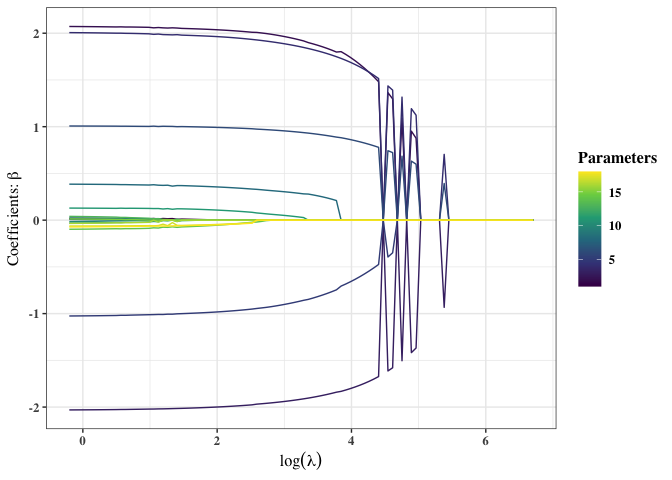
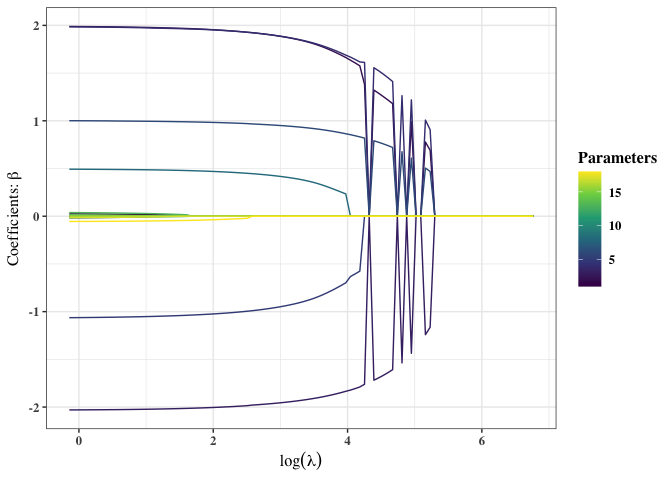
did some work

diff --git a/src/parameter_updates.cpp b/src/parameter_updates.cpp
@@ -7,7 +7,7 @@
 // [[Rcpp::export]]
 arma::mat beta_update(arma::mat X, arma::mat y, arma::mat gamma_mat,
                       arma::mat V, double lambda, bool penalty) {
-  // Finite Mixture of Gaussian Regression Models EM algorithm beta update
+  // Finite Gaussian Mixture Regression Distribution MM algorithm beta update
   int G = gamma_mat.n_cols;
   int p = X.n_cols;
   arma::vec z, ext_V_row;
@@ -56,7 +56,7 @@ arma::mat beta_update(arma::mat X, arma::mat y, arma::mat gamma_mat,
 // [[Rcpp::export]]
 arma::vec sigma_update(arma::mat X, arma::mat y, arma::mat gamma_mat,
                        arma::mat beta, arma::vec N){
-  // Finite Mixture of Gaussian Regression Models EM algorithm sigma update
+  // Finite Gaussian Mixture Regression Distribution MM algorithm sigma update
   int G = gamma_mat.n_cols;
   arma::vec sigma(G);
   arma::vec res;
@@ -73,7 +73,7 @@ arma::vec sigma_update(arma::mat X, arma::mat y, arma::mat gamma_mat,
 
 // [[Rcpp::export]]
 double lambda_max_compute(arma::mat X, arma::mat y, arma::mat gamma_mat){
-  // Finite Mixture of Gaussian Regression Models EM algorithm lambda_max
+  // Finite Gaussian Mixture Regression Distribution MM algorithm lambda_max
   // calculation
   int G = gamma_mat.n_cols;
   int p = X.n_cols;
@@ -83,7 +83,6 @@ double lambda_max_compute(arma::mat X, arma::mat y, arma::mat gamma_mat){
 
   for (int g = 0; g < G; g++){
     z = gamma_mat.col(g); // Z_g matrix in column form
-    // Calculation based on Grace's Thesis
     result.row(g) = 3.0 * arma::abs((X.t() * (y % z)).t());
   }
 

diff --git a/README.md b/README.md
@@ -18,7 +18,7 @@ mixture regression models via the MM algorithm. The sparse-group-lasso
 (sgl) penalty is applied to parameter updates within the MM algorithm
 for variable selection. The package provides multiple functions for
 estimation and allows users to fit finite mixture regression models over
-different lambda-alpha penalty combinations and group counts.
+different lambda-alpha sgl penalty combinations and group counts.
 
 This readme file provides a brief and basic example on how to use the
 regMR package. It walks through generating clustered data to be modeled,
@@ -27,7 +27,8 @@ mixture regression model to the data, and how to apply the plotting and
 summary methods/functions to the model, getting the most use out of the
 package.
 
-The methods implemented are based on research by \[INSERT HERE\].
+The methods implemented are based on research by Grace Stelter \[INSERT
+PAPER HERE\].
 
 ## Installation
 
@@ -52,16 +53,15 @@ install.packages("regMR")
 
 To generate the clustered data to be modeled using regMR, we require the
 package mvtnorm to be installed. More information on mvtnorm can be
-found here:
-<https://cran.r-project.org/web/packages/mvtnorm/index.html>. After
-setting the seed to ensure reproducibility of the data, the simulation
-parameters (number of samples, covariates, mixture components, and the
-correlation constant), and defining the true parameters for the
-clusters, we can begin to construct the multivariate normal data (`X`)
-and generate the response (`y`).
+found here: <https://CRAN.R-project.org/package=mvtnorm>. After setting
+the seed to ensure reproducibility of the data, initializing the
+simulation parameters (number of samples (`n`), covariates (`p`),
+mixture components (`G`), and the correlation constant (`rho`)), and
+defining the true parameters for the clusters, we can begin to construct
+the multivariate normal data (`X`) and generate the response (`y`).
 
 `X`: To generate `X`, the correlation matrix must first be initialized.
-This is done using the following structure \[PER GS THESIS\]:
+This is done using the following structure from \[GRACE THESIS\]:
 $\Sigma = \{\rho^{|j - k|}\}^p_{j, k = 1}$. Then, with mean 0 and the
 aforementioned correlation structure, `X` (a matrix of size n x p) is
 generated using the `rmvnorm()` function from mvtnorm.
@@ -92,7 +92,7 @@ betas <- matrix(c(
   -3, 0,  2, 0, 0, 0, 0     # component 3
 ), nrow = G, byrow = TRUE)
 pis <- c(0.4, 0.4, 0.2)
-sigmas <- c(3, 1.5, 1)/2
+sigmas <- c(0.5, 0.4, 0.3)
 
 # ----Generate correlation matrix----
 cor_mat <- outer(1:p, 1:p, function(i, j) rho^abs(i - j))
@@ -119,7 +119,7 @@ y <- rnorm(n, mean = mu_vec, sd = sigmas[groups])
 the MM algorithm over a range of lambda-alpha pairs (sgl penalty values)
 and group counts. The maximum group count to be tested is specified in
 the function below as `G = 6`. The function chooses the model with the
-lowest BIC value. EXPAND HERE?
+lowest BIC value.
 
 ``` r
 # ----Load the regMR package----
@@ -133,21 +133,21 @@ mod <- FGMRM(x = X, y = y, G = 6)
 #> 
 #>  selected model for g = 2 
 #> 
-#>  lambda = 24.05 || alpha = 0.9 || BIC = 2469.78 
+#>  lambda = 19.74 || alpha = 0.9 || BIC = 2208.94 
 #> 
 #>  Components     1      2
-#>  Pi           0.576  0.424
-#>  Sigma        2.734  0.725
+#>  Pi           0.578  0.422
+#>  Sigma        2.561  0.390
 #> 
 #>  Beta (Regression Parameters)
 #>   Components     1      2
-#>   Intercept   -0.652  5.132
-#>   Beta 1       1.095 -1.907
-#>   Beta 2       0.321  0.936
-#>   Beta 3       0.297  0.000
-#>   Beta 4       0.061  0.000
-#>   Beta 5      -0.136  0.000
-#>   Beta 6      -0.007  0.000
+#>   Intercept   -0.586  5.052
+#>   Beta 1       1.135 -1.952
+#>   Beta 2       0.284  0.951
+#>   Beta 3       0.267  0.000
+#>   Beta 4       0.000  0.000
+#>   Beta 5      -0.076  0.000
+#>   Beta 6       0.000  0.000
 #> 
 #> 
 #> -- g = 3 --
@@ -155,21 +155,21 @@ mod <- FGMRM(x = X, y = y, G = 6)
 #> 
 #>  selected model for g = 3 
 #> 
-#>  lambda = 23.28 || alpha = 1 || BIC = 2168.29 
+#>  lambda = 9.96 || alpha = 1 || BIC = 1541.01 
 #> 
 #>  Components     1      2      3
-#>  Pi           0.233  0.345  0.422
-#>  Sigma        0.470  1.418  0.721
+#>  Pi           0.236  0.340  0.424
+#>  Sigma        0.289  0.483  0.379
 #> 
 #>  Beta (Regression Parameters)
 #>   Components     1      2      3
-#>   Intercept   -3.045  0.939  5.126
-#>   Beta 1       0.000  1.942 -1.927
-#>   Beta 2       1.868 -0.881  0.946
-#>   Beta 3       0.000  0.293  0.000
-#>   Beta 4       0.000  0.040  0.000
+#>   Intercept   -3.019  0.998  5.048
+#>   Beta 1       0.000  1.941 -1.994
+#>   Beta 2       1.940 -1.009  0.977
+#>   Beta 3       0.000  0.459  0.000
+#>   Beta 4       0.000  0.000  0.000
 #>   Beta 5       0.000  0.000  0.000
-#>   Beta 6       0.000  0.000  0.000
+#>   Beta 6       0.000  0.000 -0.029
 #> 
 #> 
 #> -- g = 4 --
@@ -177,21 +177,21 @@ mod <- FGMRM(x = X, y = y, G = 6)
 #> 
 #>  selected model for g = 4 
 #> 
-#>  lambda = 22.41 || alpha = 1 || BIC = 2183.8 
+#>  lambda = 12.33 || alpha = 0.8 || BIC = 1569.28 
 #> 
 #>  Components     1      2      3      4
-#>  Pi           0.234  0.324  0.017  0.424
-#>  Sigma        0.469  1.386  0.408  0.722
+#>  Pi           0.237  0.336  0.003  0.424
+#>  Sigma        0.293  0.478  0.113  0.384
 #> 
 #>  Beta (Regression Parameters)
 #>   Components     1      2      3      4
-#>   Intercept   -3.041  0.918  1.278  5.126
-#>   Beta 1       0.000  2.022  0.000 -1.926
-#>   Beta 2       1.875 -0.897  0.000  0.947
-#>   Beta 3       0.000  0.289  0.000  0.000
-#>   Beta 4       0.000  0.044  0.000  0.000
+#>   Intercept   -3.024  1.005  0.171  5.050
+#>   Beta 1       0.000  1.931  0.000 -1.979
+#>   Beta 2       1.919 -0.991  0.000  0.970
+#>   Beta 3       0.000  0.431  0.000  0.000
+#>   Beta 4       0.000  0.000  0.000  0.000
 #>   Beta 5       0.000  0.000  0.000  0.000
-#>   Beta 6       0.000  0.000  0.000  0.000
+#>   Beta 6       0.000  0.000  0.000 -0.000
 #> 
 #> 
 #> -- g = 5 --
@@ -199,21 +199,21 @@ mod <- FGMRM(x = X, y = y, G = 6)
 #> 
 #>  selected model for g = 5 
 #> 
-#>  lambda = 21.71 || alpha = 0.9 || BIC = 2199.34 
+#>  lambda = 7.5 || alpha = 0.5 || BIC = 1588.4 
 #> 
 #>  Components     1      2      3      4      5
-#>  Pi           0.235  0.320  0.018  0.005  0.422
-#>  Sigma        0.471  1.383  0.403  0.010  0.717
+#>  Pi           0.237  0.335  0.005  0.000  0.424
+#>  Sigma        0.289  0.476  0.017  0.068  0.379
 #> 
 #>  Beta (Regression Parameters)
 #>   Components     1      2      3      4      5
-#>   Intercept   -3.043  0.893  1.305  6.874  5.119
-#>   Beta 1       0.000  1.985  0.000  0.000 -1.921
-#>   Beta 2       1.868 -0.842  0.000  0.000  0.951
-#>   Beta 3       0.000  0.259  0.000  0.000  0.000
-#>   Beta 4       0.000  0.014  0.000  0.000  0.000
+#>   Intercept   -3.018  0.988  2.310  0.000  5.047
+#>   Beta 1       0.018  1.940  0.000  0.000 -1.995
+#>   Beta 2       1.932 -1.022  0.000  0.000  0.982
+#>   Beta 3       0.000  0.455  0.000  0.000 -0.002
+#>   Beta 4       0.000  0.000  0.000  0.000  0.000
 #>   Beta 5       0.000  0.000  0.000  0.000  0.000
-#>   Beta 6       0.000  0.000  0.000  0.000  0.000
+#>   Beta 6       0.000 -0.006  0.000  0.000 -0.024
 #> 
 #> 
 #> -- g = 6 --
@@ -221,21 +221,21 @@ mod <- FGMRM(x = X, y = y, G = 6)
 #> 
 #>  selected model for g = 6 
 #> 
-#>  lambda = 21.49 || alpha = 1 || BIC = 2219.29 
+#>  lambda = 10.17 || alpha = 1 || BIC = 1582.99 
 #> 
 #>  Components     1      2      3      4      5      6
-#>  Pi           0.235  0.317  0.018  0.000  0.008  0.422
-#>  Sigma        0.468  1.372  0.400  0.413  0.055  0.719
+#>  Pi           0.237  0.004  0.330  0.005  0.000  0.424
+#>  Sigma        0.289  0.132  0.466  0.017  1.466  0.380
 #> 
 #>  Beta (Regression Parameters)
 #>   Components     1      2      3      4      5      6
-#>   Intercept   -3.041  0.872  1.318  1.257  6.915  5.117
-#>   Beta 1       0.000  1.982  0.000  0.000  0.000 -1.925
-#>   Beta 2       1.880 -0.826  0.000  0.000  0.000  0.950
-#>   Beta 3       0.000  0.244  0.000  0.000  0.000  0.000
-#>   Beta 4       0.000  0.058  0.000  0.000  0.000  0.000
+#>   Intercept   -3.021  0.124  0.997  2.310  0.000  5.049
+#>   Beta 1       0.000  0.000  1.942  0.000  0.000 -1.993
+#>   Beta 2       1.937  0.000 -1.007  0.000  0.000  0.975
+#>   Beta 3       0.000  0.000  0.451  0.000  0.000  0.000
+#>   Beta 4       0.000  0.000  0.000  0.000  0.000  0.000
 #>   Beta 5       0.000  0.000  0.000  0.000  0.000  0.000
-#>   Beta 6       0.000  0.000  0.000  0.000  0.000  0.000
+#>   Beta 6       0.000  0.000  0.000  0.000  0.000 -0.029
 #> 
 #> -------------------------------------------------------------------------------- 
 #> 
@@ -243,21 +243,21 @@ mod <- FGMRM(x = X, y = y, G = 6)
 #> 
 #>  G = 3 
 #> 
-#>  lambda = 23.28 || alpha = 1 || log-likelihood = -1037.54 || BIC = 2168.29 || MSE = 0.72 
+#>  lambda = 9.96 || alpha = 1 || log-likelihood = -720.79 || BIC = 1541.01 || MSE = 0.14 
 #> 
 #>  Components     1      2      3
-#>  Pi           0.233  0.345  0.422
-#>  Sigma        0.470  1.418  0.721
+#>  Pi           0.236  0.340  0.424
+#>  Sigma        0.289  0.483  0.379
 #> 
 #>  Beta (Regression Parameters)
 #>   Components     1      2      3
-#>   Intercept   -3.045  0.939  5.126
-#>   Beta 1       0.000  1.942 -1.927
-#>   Beta 2       1.868 -0.881  0.946
-#>   Beta 3       0.000  0.293  0.000
-#>   Beta 4       0.000  0.040  0.000
+#>   Intercept   -3.019  0.998  5.048
+#>   Beta 1       0.000  1.941 -1.994
+#>   Beta 2       1.940 -1.009  0.977
+#>   Beta 3       0.000  0.459  0.000
+#>   Beta 4       0.000  0.000  0.000
 #>   Beta 5       0.000  0.000  0.000
-#>   Beta 6       0.000  0.000  0.000
+#>   Beta 6       0.000  0.000 -0.029
 #> 
 #> --------------------------------------------------------------------------------
 ```
@@ -300,22 +300,10 @@ per the group responsibility matrix (`z_hard`) in the finite Gaussian
 mixture regression model of class FGMRM passed to the function.
 
 ``` r
-plot2(mod, X, y, 1) # covariate one
-```
-
-<img src="man/figures/README-example-4-1.png" width="100%" />
-
-``` r
 plot2(mod, X, y, 2) # covariate two
 ```
 
-<img src="man/figures/README-example-4-2.png" width="100%" />
-
-``` r
-plot2(mod, X, y, 3) # covariate three
-```
-
-<img src="man/figures/README-example-4-3.png" width="100%" />
+<img src="man/figures/README-example-4-1.png" width="100%" />
 
 `summary()` is an S3 method for summarizing results (class FGMRM) from
 the `FGMRM()` and `MM_Grid_FGMRM()` functions. Outputs the number of
@@ -330,21 +318,21 @@ summary(mod)
 #> 
 #>  G = 3 
 #> 
-#>  lambda = 23.28 || alpha = 1 || log-likelihood = -1037.54 || 
-#>  BIC = 2168.29 || MSE = 0.72 
+#>  lambda = 9.96 || alpha = 1 || log-likelihood = -720.79 || 
+#>  BIC = 1541.01 || MSE = 0.14 
 #> 
 #>  Components     1      2      3
-#>  Pi           0.233  0.345  0.422
-#>  Clusters       125    150    225
-#>  Sigma        0.470  1.418  0.721
+#>  Pi           0.236  0.340  0.424
+#>  Clusters       118    165    217
+#>  Sigma        0.289  0.483  0.379
 #> 
 #>  Beta (Regression Parameters)
 #>   Components     1      2      3
-#>   Intercept   -3.045  0.939  5.126
-#>   Beta 1       0.000  1.942 -1.927
-#>   Beta 2       1.868 -0.881  0.946
-#>   Beta 3       0.000  0.293  0.000
-#>   Beta 4       0.000  0.040  0.000
+#>   Intercept   -3.019  0.998  5.048
+#>   Beta 1       0.000  1.941 -1.994
+#>   Beta 2       1.940 -1.009  0.977
+#>   Beta 3       0.000  0.459  0.000
+#>   Beta 4       0.000  0.000  0.000
 #>   Beta 5       0.000  0.000  0.000
-#>   Beta 6       0.000  0.000  0.000
+#>   Beta 6       0.000  0.000 -0.029
 ```
